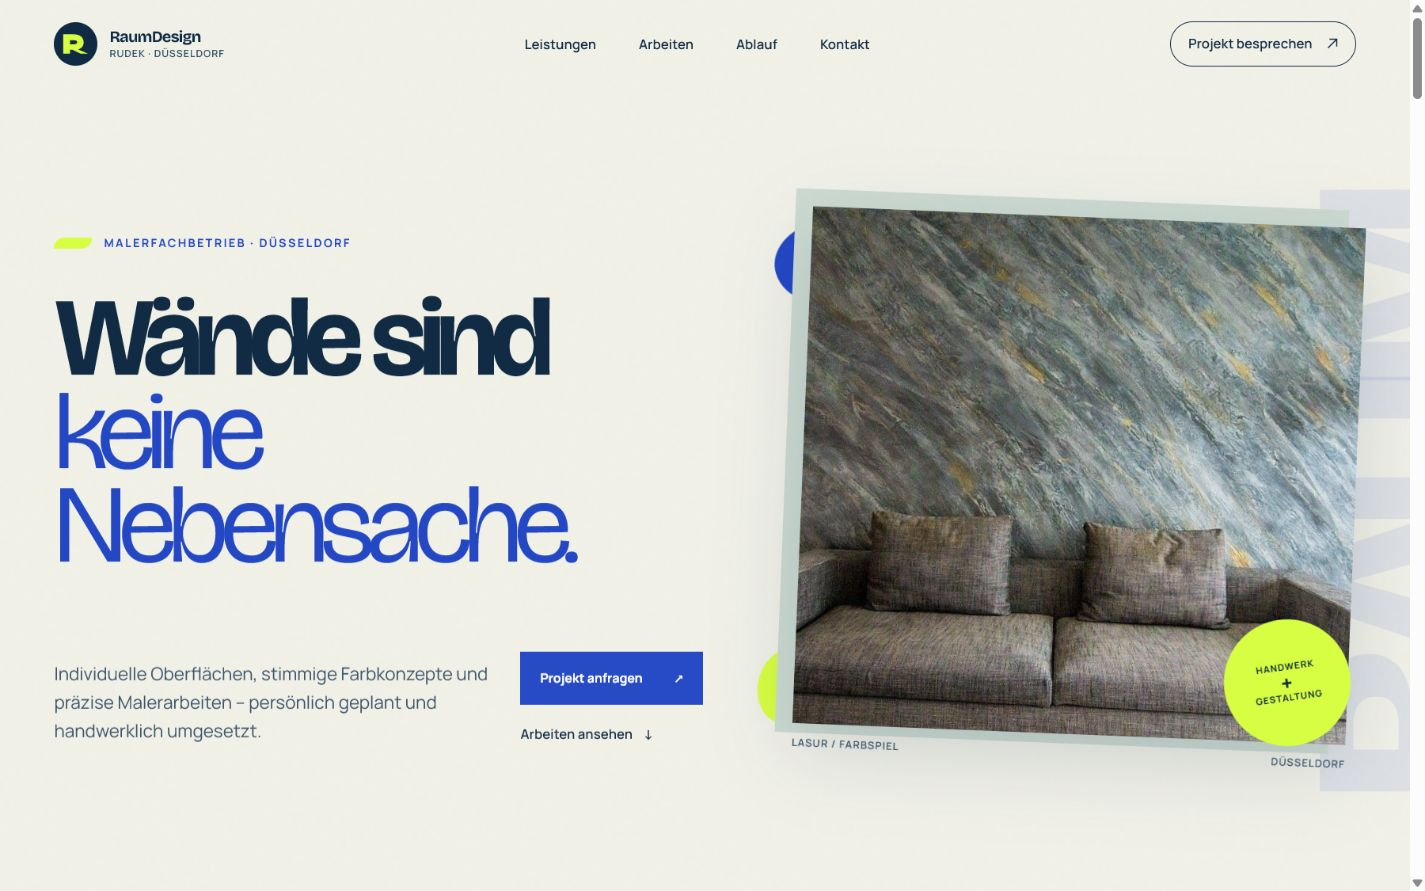
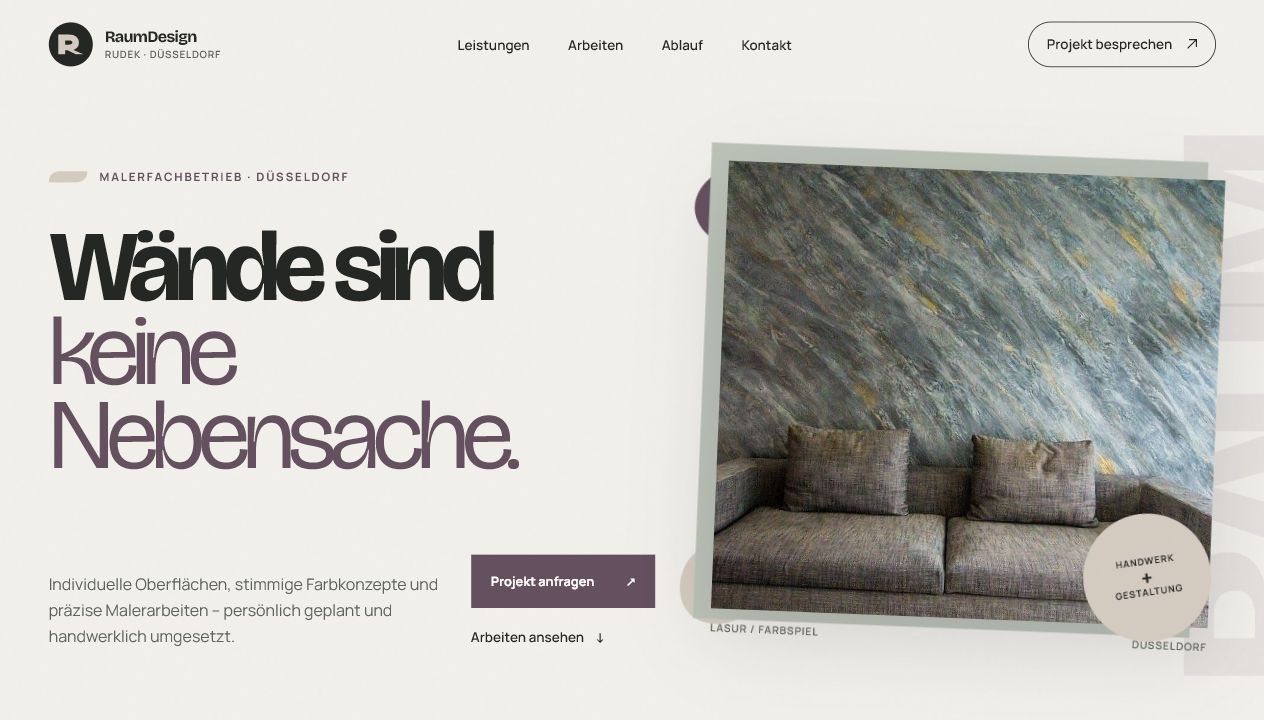
Replace cobalt and neon palette with Kalkatelier tones

diff --git a/assets/css/style.css b/assets/css/style.css
@@ -15,17 +15,21 @@
 }
 
 :root {
-  --paper: #f1f1e8;
-  --paper-soft: #fafaf4;
-  --ink: #102a43;
-  --ink-soft: #385067;
-  --blue: #2347c5;
-  --blue-deep: #162b73;
-  --mint: #cddbd2;
-  --acid: #d7ff42;
+  --paper: #f2f0eb;
+  --paper-soft: #faf9f6;
+  --ink: #252725;
+  --ink-soft: #5d625e;
+  --aubergine: #65505f;
+  --plum-deep: #342f35;
+  --sage: #bcc3b8;
+  --plaster: #d4cbc1;
+  --blue: var(--aubergine);
+  --blue-deep: var(--plum-deep);
+  --mint: var(--sage);
+  --acid: var(--plaster);
   --white: #ffffff;
-  --line: rgba(16, 42, 67, 0.2);
-  --shadow: 0 24px 80px rgba(16, 42, 67, 0.16);
+  --line: rgba(37, 39, 37, 0.22);
+  --shadow: 0 24px 80px rgba(52, 47, 53, 0.16);
   --font-display: "Bricolage", sans-serif;
   --font-body: "Manrope", sans-serif;
   --content: 88rem;
@@ -858,7 +862,7 @@ a {
   position: absolute;
   inset: 0;
   content: "";
-  background: linear-gradient(120deg, rgba(35, 71, 197, 0.05), rgba(215, 255, 66, 0.13));
+  background: linear-gradient(120deg, rgba(101, 80, 95, 0.12), rgba(188, 195, 184, 0.16));
   mix-blend-mode: color;
 }
 
@@ -884,7 +888,7 @@ a {
   position: absolute;
   inset: -1.4rem;
   content: "";
-  border: 1px solid rgba(215,255,66,0.55);
+  border: 1px solid rgba(212, 203, 193, 0.7);
   border-radius: 60% 40% 46% 54% / 41% 60% 40% 59%;
 }
 

diff --git a/404.html b/404.html
@@ -5,7 +5,7 @@
   <meta name="viewport" content="width=device-width, initial-scale=1">
   <title>Seite nicht gefunden | RaumDesign Rudek</title>
   <meta name="robots" content="noindex">
-  <meta name="theme-color" content="#162b73">
+  <meta name="theme-color" content="#342f35">
   <link rel="icon" href="favicon.svg" type="image/svg+xml">
   <link rel="stylesheet" href="assets/css/style.css">
 </head>

diff --git a/datenschutz.html b/datenschutz.html
@@ -5,7 +5,7 @@
   <meta name="viewport" content="width=device-width, initial-scale=1">
   <title>Datenschutz | RaumDesign Rudek</title>
   <meta name="robots" content="noindex, follow">
-  <meta name="theme-color" content="#f1f1e8">
+  <meta name="theme-color" content="#f2f0eb">
   <link rel="icon" href="favicon.svg" type="image/svg+xml">
   <link rel="stylesheet" href="assets/css/style.css">
 </head>

diff --git a/impressum.html b/impressum.html
@@ -5,7 +5,7 @@
   <meta name="viewport" content="width=device-width, initial-scale=1">
   <title>Impressum | RaumDesign Rudek</title>
   <meta name="robots" content="noindex, follow">
-  <meta name="theme-color" content="#f1f1e8">
+  <meta name="theme-color" content="#f2f0eb">
   <link rel="icon" href="favicon.svg" type="image/svg+xml">
   <link rel="stylesheet" href="assets/css/style.css">
 </head>

diff --git a/index.html b/index.html
@@ -5,7 +5,7 @@
   <meta name="viewport" content="width=device-width, initial-scale=1">
   <title>RaumDesign Rudek | Wandgestaltung &amp; Malerbetrieb Düsseldorf</title>
   <meta name="description" content="RaumDesign Rudek gestaltet Wände und Räume in Düsseldorf: Kalk- und Marmorputz, Lasuren, Spachteltechniken, Farbkonzepte und präzise Malerarbeiten.">
-  <meta name="theme-color" content="#f1f1e8">
+  <meta name="theme-color" content="#f2f0eb">
   <meta name="robots" content="index, follow">
   <link rel="canonical" href="https://raumdesign-rudek-mineral-index.vercel.app/">
   <link rel="icon" href="favicon.svg" type="image/svg+xml">

diff --git a/DESIGN.md b/DESIGN.md
@@ -1,32 +1,34 @@
-# Designsystem: Mineral Index
+# Designsystem: Kalkatelier
 
 ## 1. Überblick
 
-„Mineral Index“ übersetzt die Arbeit eines gestaltungsorientierten Malerbetriebs in eine helle, grafische Materialwelt. Die Seite wirkt wie eine Mischung aus Werkstattarchiv, Pigmentkarte und zeitgenössischem Designkatalog. Sie vermeidet bewusst die zuvor dominante Kombination aus Near-Black, Kupfer und Editorial-Serif.
+„Kalkatelier“ übersetzt die Arbeit eines gestaltungsorientierten Malerbetriebs in eine ruhige, haptische Materialwelt. Die Seite wirkt wie eine Mischung aus Werkstattarchiv, Musterfläche und zeitgenössischem Designkatalog. Die Farbigkeit stammt aus Kalk, Naturstein, Salbei und dem tiefen Aubergine realer Rudek-Projekte. Sie vermeidet sowohl die frühere Schwarz-Kupfer-Kombination als auch digitale Neon- und Kobaltakzente.
 
 ## 2. Gestaltungsprinzipien
 
 1. **Material vor Dekoration:** Echte Oberflächen und Räume sind der Beweis.
 2. **Große Gesten, ruhige Bedienung:** Typografie und Bildmaßstab dürfen mutig sein; Navigation und Interaktionen bleiben eindeutig.
 3. **Unperfekte Präzision:** Organische Pigmentformen treffen auf ein strenges Raster.
-4. **Kontrast statt Luxusklischee:** Helles Kreidepapier und Tintenblau erzeugen Eigenständigkeit ohne Gold- oder Kupfercodes.
+4. **Kontrast ohne Lautstärke:** Helles Kalkgrau, Graphit und Aubergine erzeugen Eigenständigkeit ohne Gold-, Kupfer- oder Neoncode.
 5. **Persönliche Conversion:** Kontaktwege sind direkt, konkret und ohne künstlichen Druck.
 
 ## 3. Farbe
 
 | Token | Wert | Verwendung |
 | --- | --- | --- |
-| `--paper` | `#F1F1E8` | Hauptfläche, mineralische Grundstimmung |
-| `--paper-soft` | `#FAFAF4` | Sekundäre Flächen |
-| `--ink` | `#102A43` | Primärtext, Linien, Footer |
-| `--ink-soft` | `#385067` | Sekundärtext |
-| `--blue` | `#2347C5` | Primärakzent, Links, wichtige Begriffe |
-| `--blue-deep` | `#162B73` | Immersive Materialsektion |
-| `--mint` | `#CDDBD2` | Ruhige Materialfläche |
-| `--acid` | `#D7FF42` | Pigmentmarken und Conversion-Akzent |
+| `--paper` | `#F2F0EB` | Kalkgraue Hauptfläche |
+| `--paper-soft` | `#FAF9F6` | Helle Sekundärflächen |
+| `--ink` | `#252725` | Graphit für Primärtext, Linien und Footer |
+| `--ink-soft` | `#5D625E` | Gedämpftes Graugrün für Sekundärtext |
+| `--aubergine` | `#65505F` | Links, Buttons und wichtige Begriffe |
+| `--plum-deep` | `#342F35` | Dunkle Materialsektion |
+| `--sage` | `#BCC3B8` | Salbeigraue Materialfläche |
+| `--plaster` | `#D4CBC1` | Heller Putzton für Marken und Kontaktakzente |
 | `--white` | `#FFFFFF` | Text auf dunklen Flächen |
 
-Chartreuse wird sparsam eingesetzt: als Materialspur, nicht als flächiger Markenfarbersatz.
+Der helle Putzton bleibt bewusst leise. Orientierung entsteht durch Helligkeitskontrast und Typografie, nicht durch Signalfarbe.
+
+Die bisherigen internen Token-Namen bleiben als CSS-Aliasse erhalten, damit die Neufärbung keine Komponentenlogik berührt.
 
 ## 4. Typografie
 
@@ -51,11 +53,11 @@ Chartreuse wird sparsam eingesetzt: als Materialspur, nicht als flächiger Marke
 
 ### Header
 
-Fixiert, anfangs transparent, beim Scrollen kreidefarben mit Blur. Desktop-Navigation wird unter 1100 px durch ein natives Button-Menü ersetzt.
+Fixiert, anfangs transparent, beim Scrollen kalkfarben mit Blur. Desktop-Navigation wird unter 1100 px durch ein natives Button-Menü ersetzt.
 
 ### Buttons
 
-Eckige, hochkontrastige Flächen ohne generische Pill-Form. Primär in Tintenblau, Kontaktbutton in Dunkelblau. Hover bewegt die Fläche nur leicht nach oben.
+Eckige, hochkontrastige Flächen ohne generische Pill-Form. Primär in Aubergine, Kontaktbutton in Graphit. Hover bewegt die Fläche nur leicht nach oben.
 
 ### Projektarchiv
 
@@ -63,7 +65,7 @@ Native horizontale Scrollfläche mit Scroll Snap. Jede Karte ist ein Button und 
 
 ### Leistungszeilen
 
-Große, gerasterte Zeilen mit Nummer, Titel, Kurztext und Pfeil. Die Chartreuse-Fläche läuft auf Hover hinter den Inhalt.
+Große, gerasterte Zeilen mit Nummer, Titel, Kurztext und Pfeil. Eine helle Putzfläche läuft auf Hover hinter den Inhalt.
 
 ### FAQ
 

diff --git a/QA_REPORT.md b/QA_REPORT.md
@@ -1,6 +1,6 @@
 # QA-Bericht
 
-Stand: 18. Juli 2026
+Stand: 19. Juli 2026
 
 ## Ergebnis
 
@@ -17,6 +17,16 @@ Die statische Website ist funktional, responsiv und für das Deployment freigege
 | Defekte Bilder im Browser | 0 |
 | Horizontales Seitenoverflow | 0 bei 375, 768 und 1440 px |
 | Lokale Fonts geladen | Bricolage und Manrope bestätigt |
+| Neue Kalkatelier-Farbwelt | Keine Kobalt- oder Neonfarben mehr in den aktiven Design-Tokens |
+| Farbkontraste | Relevante Text-/Flächenkombinationen bestehen WCAG AA |
+
+Geprüfte Kontrastwerte der neuen Farbwelt:
+
+- Graphit auf Kalk: 13,21:1
+- Sekundärtext auf Kalk: 5,46:1
+- Aubergine auf Kalk: 6,43:1
+- Weiß auf Aubergine: 7,33:1
+- Weiß auf dunkler Pflaume: 13,09:1
 
 ## Lighthouse
 
@@ -51,6 +61,7 @@ Geprüfte Viewports:
 Gespeicherte Referenzen:
 
 - `screenshots/desktop-hero.png`
+- `screenshots/desktop-material.png`
 - `screenshots/desktop-services.png`
 - `screenshots/desktop-work.png`
 - `screenshots/desktop-dialog.png`

diff --git a/REBUILD_PLAN.md b/REBUILD_PLAN.md
@@ -38,7 +38,7 @@ Bewertung: Markenevidenz 30 %, Bildverträglichkeit 25 %, Differenzierung 20 %, 
 
 | Farbwelt | Beschreibung | Evidenz | Punkte |
 | --- | --- | --- | ---: |
-| **A — Mineral Index** | Kreideweiß, Tintenblau, mineralisches Mint, Chartreuse als kleine Pigmentmarke | Helle Putzflächen, blaue Lasuren, silbrige Strukturen; klarer Kontrast zur bestehenden Kupferwelt | **91/100** |
+| **A — Kalkatelier** | Kalkgrau, Graphit, gedämpfter Salbei, tiefes Aubergine und heller Putzton | Helle Putzflächen, Naturstein und das violette Farbkonzept realer Projekte; klarer Kontrast zur bestehenden Kupferwelt ohne digitale Signalfarben | **91/100** |
 | B — Lapislazuli Nacht | Tiefblau, Nebelgrau, Eisblau, Weiß | Verträgt die dunklen Projektbilder gut, bleibt aber wieder überwiegend dunkel | 79/100 |
 | C — Rosé Atelier | Puderrosa, Pflaume, Kalkweiß, Schwarz | Greift violette Räume auf, wirkt aber stärker mode- als materialgetrieben | 73/100 |
 